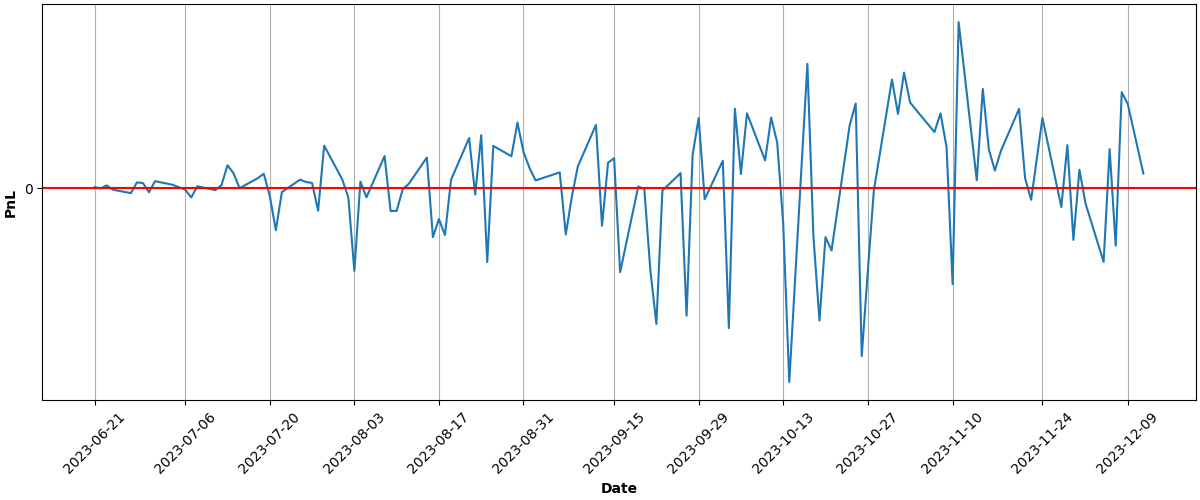
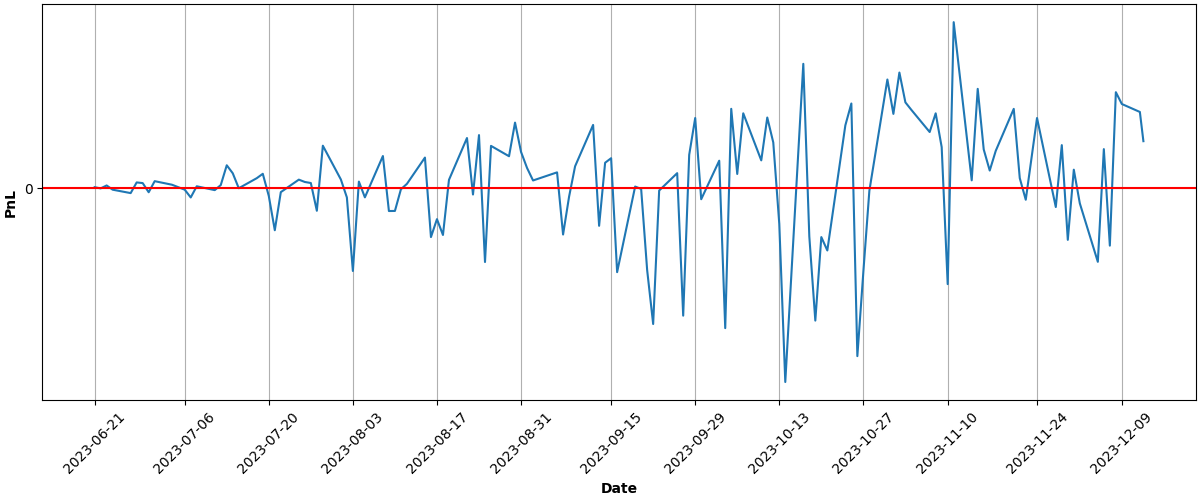
Automated Buy At Tue Dec 12 15:04:37 UTC 2023 Run ID 7183334429

diff --git a/README.md b/README.md
@@ -68,9 +68,9 @@ Results
 
 | Asset | Average Price | Current Price | ROI | 📈 |
 | --- | --- | --- | --- | --- |
-| FNGU | $175.101701507 | $202.67 | 15.74% | &#128994;&#128515; |
-| SVIX | $28.878328 | $35.6401 | 23.41% | &#128994;&#128515; |
-| **Total** |  |  | **19.86%** | &#128994;&#128518; |
+| FNGU | $175.319371937 | $207.6381 | 18.43% | &#128994;&#128515; |
+| SVIX | $28.878328 | $36.76 | 27.29% | &#128994;&#128515; |
+| **Total** |  |  | **23.16%** | &#128994;&#128518; |
 
 ### PnL over time (calculations may not be accurate):
 
@@ -81,6 +81,6 @@ Results
 ---
 
 
-Updated at 2023-12-11 15:05:08
+Updated at 2023-12-12 15:04:51
 
 
